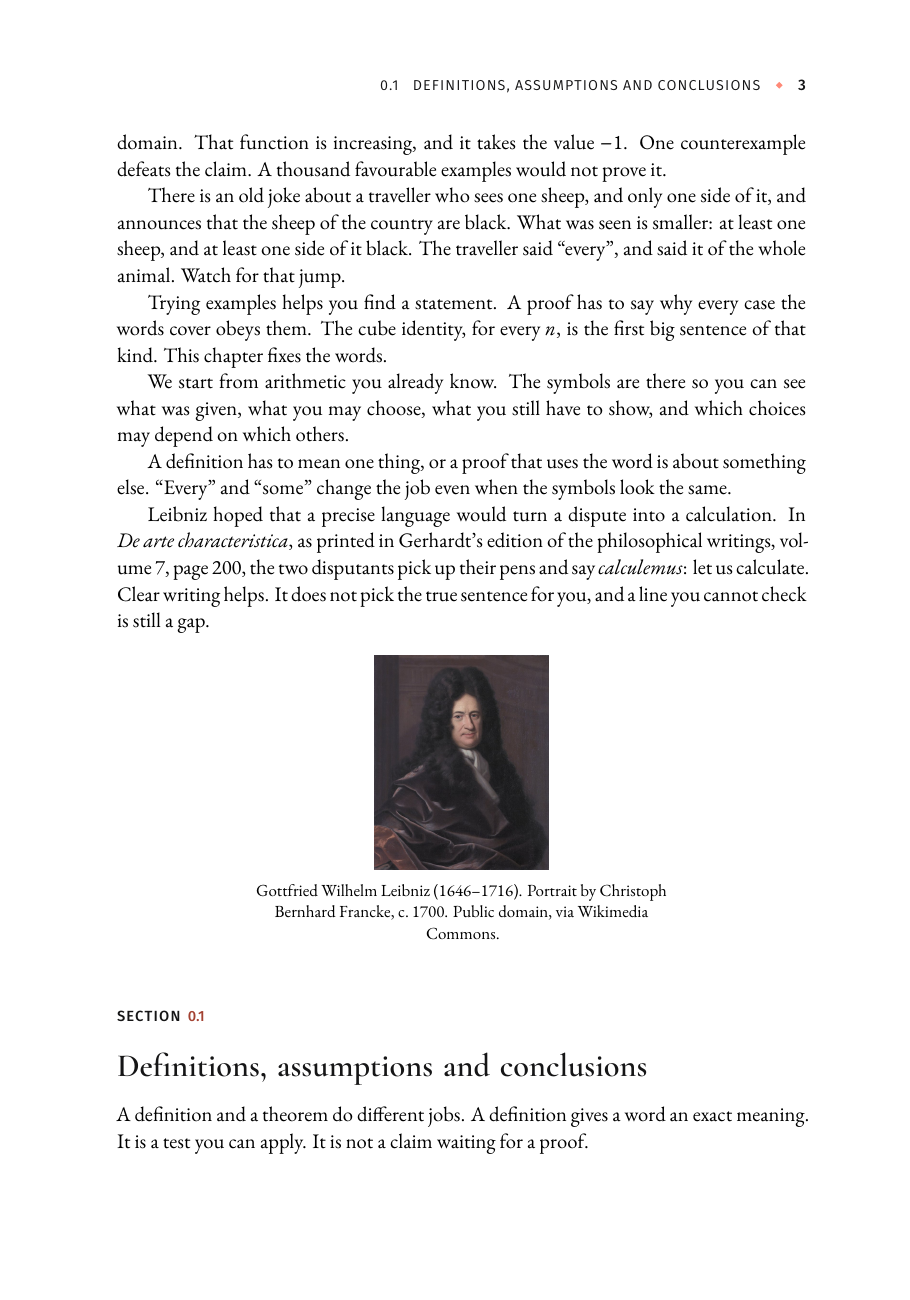
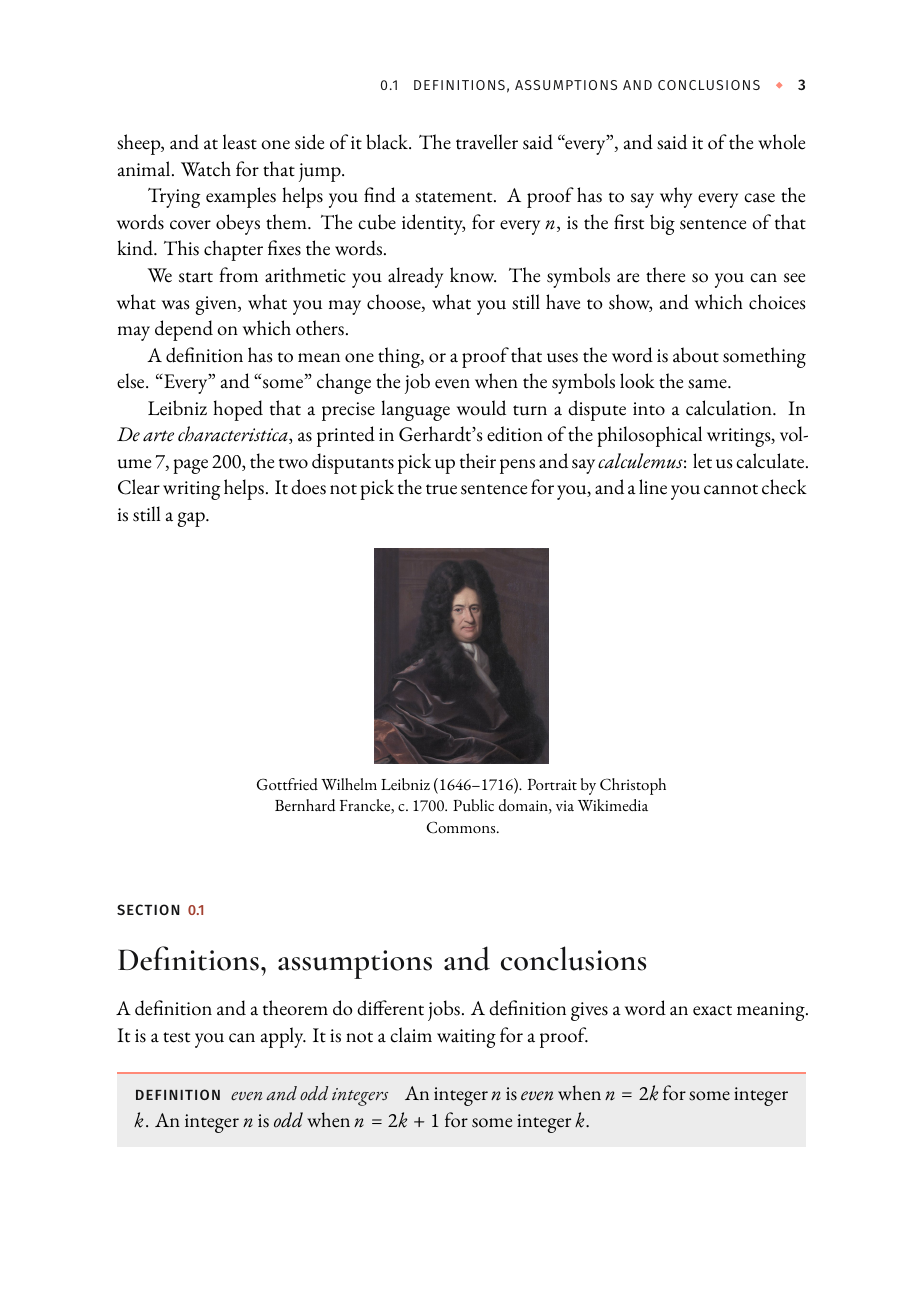
Put the chapter title inside the charcoal band
The numeral stays on the left and the cream Cormorant title sits beside it, so a long title remains on the charcoal. The coral rule and the epigraph follow on the paper, and the prose continues on the same page.

Changed region(s): [[0.1231, 0.0923, 0.8923, 0.8923], [0.1231, 0.6769, 0.2154, 0.7077]]

diff --git a/tools/epub.css b/tools/epub.css
@@ -53,9 +53,9 @@ h2 > .header-section-number { display: block; font-family: "OC Label", "Fira San
 h2 > .header-section-number::before { content: "Section\00A0\00A0"; color: #151516; }
 h3 > .header-section-number { margin-right: .45em; }
 
-/* Chapter opener and part header: one compact charcoal strip, then the epigraph, then
-   the text. Print uses the same order (common/chapter-opener.tex); the full charcoal
-   part page is print only. Masthead line, coral numeral beside the ivory title, coral rule. */
+/* Chapter opener and part header: the title sits inside the charcoal strip
+   (masthead, coral numeral, cream title). The epigraph and the text follow on the
+   page. Print uses the same order. The full charcoal part page is print only. */
 h1.oc-chapter, h1.oc-part { background-color: #151516; color: #fdf8f5; margin: 0 0 1em; padding: .55em .6em .6em;
   font-size: 1.6em; line-height: 1.15; }
 h1.oc-chapter::before, h1.oc-part::before { content: "Order and Chance \00B7\00A0 " attr(data-masthead);
@@ -64,6 +64,9 @@ h1.oc-chapter::before, h1.oc-part::before { content: "Order and Chance \00B7\00A
 h1.oc-chapter > .header-section-number, h1.oc-part > .header-section-number { display: inline; font-family: "OC Display",
   "Cormorant Garamond", Georgia, serif; font-weight: 300; font-size: 1.7em; line-height: 1; color: #ff8a78;
   margin-right: .25em; }
+h1.oc-chapter > .header-section-number::before { content: "Chapter\00A0";
+  font-family: "OC Label", "Fira Sans", sans-serif; font-weight: 500; font-size: .32em; letter-spacing: .12em;
+  text-transform: uppercase; color: #fdf8f5; vertical-align: .55em; }
 h1.oc-chapter > .header-section-number::after, h1.oc-part > .header-section-number::after { content: none; }
 .oc-opener { background-color: transparent; color: inherit; margin: 0 0 1.6em; padding: 0; }
 .oc-epigraph { font-style: italic; font-size: .95em; text-align: left; margin: 0 0 1em; }

diff --git a/tools/reader.css b/tools/reader.css
@@ -122,9 +122,8 @@ h2 > .header-section-number { display: block; font: 500 .45em/1.2 var(--sans); l
 h2 > .header-section-number::before { content: "Section\00A0\00A0"; color: var(--ink); }
 h3 > .header-section-number { margin-right: .45em; }
 
-/* Chapter opener and part header: one compact charcoal strip, then the epigraph, then
-   the text (the same order as the print opener). The full charcoal part page is print
-   only. Masthead line, coral numeral beside the ivory title, coral rule. */
+/* Chapter opener and part header: the title sits inside the charcoal strip, then the
+   epigraph and the text. The full charcoal part page is print only. */
 h1.oc-chapter, h1.oc-part { background: var(--panel); color: var(--ivory); margin: -8px calc(-1 * var(--pad)) 1.1em;
   padding: 14px var(--pad) 16px; font-size: 1.75em; line-height: 1.15; border-radius: 0 0 3px 3px; }
 h1.oc-chapter::before, h1.oc-part::before { content: "Order and Chance \00B7\00A0 " attr(data-masthead); display: block;
@@ -132,6 +131,9 @@ h1.oc-chapter::before, h1.oc-part::before { content: "Order and Chance \00B7\00A
   margin-bottom: 10px; }
 h1.oc-chapter > .header-section-number, h1.oc-part > .header-section-number { display: inline-block; vertical-align: -.08em;
   font: 300 1.9em/1 var(--display); font-variant-numeric: lining-nums; color: var(--coral); margin: 0 .3em 0 -.02em; }
+h1.oc-chapter > .header-section-number::before { content: "Chapter\00A0";
+  font: 500 .32em/1 var(--sans); letter-spacing: .12em; text-transform: uppercase; color: var(--ivory);
+  vertical-align: .55em; }
 h1.oc-chapter > .header-section-number::after, h1.oc-part > .header-section-number::after { content: none; }
 h1.oc-chapter::after, h1.oc-part::after { width: 48px; margin-top: 10px; }
 .oc-opener { background: none; color: var(--ink); margin: 0 0 1.8em; padding: 0; }

diff --git a/common/chapter-opener.tex b/common/chapter-opener.tex
@@ -4,11 +4,11 @@
 % PART n, the ivory title and the part rule. No epigraph, and no illustration: the
 % cover motif and \chaptermotif are not drawn here.
 %
-% Chapter opener: the same lockup, compact, at the top of the chapter's first page.
-% A charcoal band (masthead, volume line, coral numeral) sits 0.30 in inside the trim,
-% then CHAPTER n, the Cormorant title, a coral rule and the epigraph. The chapter
-% prose starts immediately under that block, on the same page. There is no second
-% heading. The first page uses the plain style (folio at the foot, no running head).
+% Chapter opener: one compact band at the top of the chapter's first page. The band
+% holds the masthead, the volume line, the coral numeral and the cream chapter title.
+% A coral rule and the epigraph sit on the paper directly under the band, and the
+% prose follows on the same page. There is no second heading. The first page uses the
+% plain style (folio at the foot, no running head).
 % Numbered chapters start on the next page, recto or verso: the class option is
 % openany, and a blank is not inserted to force a side. A part's first chapter
 % therefore still sits on the back of the part page.
@@ -25,11 +25,19 @@
 % no-bleed KDP page does not carry the band to the cut. \oc@bandH is the band's height;
 % \oc@bandDrop is how far its top sits below the trim (the text block begins at 1 in).
 \newlength{\oc@bandInset}\setlength{\oc@bandInset}{0.30in}
-\newlength{\oc@bandH}\setlength{\oc@bandH}{1.48in}
+\newlength{\oc@bandH}\setlength{\oc@bandH}{1.70in}
 \newlength{\oc@bandDrop}\setlength{\oc@bandDrop}{0.30in}
+\newlength{\oc@numW}\setlength{\oc@numW}{1.18in}
+\newlength{\oc@titleW}
+\newlength{\oc@lower}
+\newsavebox{\oc@ch@lock}
+\newsavebox{\oc@ch@num}
 % How far titlesec's strut line and the 0 pt before-skip push the band down
 % past \oc@bandDrop. Measured on a 7 x 10 page (see the comment on \oc@flow@band).
 \newlength{\oc@bandRaise}\setlength{\oc@bandRaise}{2.05in}
+% The raise above was measured when every band was 1.48 in tall. The picture's
+% baseline is its top, so this length is subtracted back out of the skip.
+\newlength{\oc@bandFix}\setlength{\oc@bandFix}{1.485in}
 \newlength{\oc@bandW}
 \newlength{\oc@hang}
 % Long titles: allow a line break after an en or em dash ("Bombieri--Vinogradov").
@@ -48,20 +56,38 @@
 \newif\ifoc@op@recto
 \let\oc@ch@epi\@empty
 % ---------------------------------------------------------------- the chapter band
-% Drawn in the text flow and shifted into the top and side margins, stopping
-% \oc@bandDrop / \oc@bandInset short of the trim. The following title block, and
-% then the chapter prose, continue on this page.
-\newcommand{\oc@flow@band}{%
+% Numeral on the left, CHAPTER n and the cream title on the right, both inside
+% the charcoal. The band grows for a two-line title. Its top stays \oc@bandDrop
+% below the trim; the sides stay \oc@bandInset inside the trim.
+\newcommand{\oc@flow@band}[1]{%
   \setlength{\oc@bandW}{\dimexpr\PRINTWIDTH in-2\oc@bandInset\relax}%
   \ifodd\c@page
     \setlength{\oc@hang}{\dimexpr\ocInner-\oc@bandInset\relax}%
   \else
     \setlength{\oc@hang}{\dimexpr\ocOuter-\oc@bandInset\relax}%
   \fi
+  \setlength{\oc@titleW}{\dimexpr\linewidth-\oc@numW-0.20in\relax}%
+  \sbox{\oc@ch@num}{\ocNumeral\fontsize{64}{64}\selectfont\thechapter}%
+  \setbox\oc@ch@lock=\vbox{%
+    \topskip=0pt \parskip=0pt \parindent=0pt
+    \hsize=\oc@titleW
+    \hyphenpenalty=10000 \exhyphenpenalty=10000
+    \raggedright\everypar{}%
+    {\ocMed\fontsize{8.2}{10}\selectfont\color{ocCream}%
+      \ocLab{\chaptertitlename}\enspace\textcolor{ocCoral}{\thechapter}\par}%
+    \vspace{4pt}%
+    {\ocDisplay\linespread{1}\fontsize{26}{30}\selectfont\color{ocCream}%
+      \everymath{\color{ocCream}}\everydisplay{\color{ocCream}}%
+      \ocBreakDashes{#1}\par}}%
+  \setlength{\oc@lower}{\dimexpr\ht\oc@ch@lock+\dp\oc@ch@lock\relax}%
+  \ifdim\ht\oc@ch@num>\oc@lower \setlength{\oc@lower}{\ht\oc@ch@num}\fi
+  % Masthead and volume line, then the lockup, then a pad inside the charcoal.
+  \setlength{\oc@bandH}{\dimexpr0.64in+\oc@lower+0.18in\relax}%
   % titlesec inserts \vspace*{0pt} and its block shape leaves a strut line above
-  % this point, so the natural top of the band is far down the page. \oc@bandRaise
-  % is the measured correction that puts the band's top at \oc@bandDrop.
-  \vspace*{\dimexpr\oc@bandH-(1in-\oc@bandDrop)+\topskip-\oc@bandRaise\relax}%
+  % this point. The picture's baseline is its top edge, so a taller title must not
+  % push that edge down. \oc@bandRaise was measured for a 1.48 in band; \oc@bandFix
+  % takes that height back out and leaves the top at \oc@bandDrop.
+  \vspace*{\dimexpr\oc@bandFix-(1in-\oc@bandDrop)+\topskip-\oc@bandRaise\relax}%
   \nointerlineskip
   \moveleft\oc@hang\hbox{%
     \begin{tikzpicture}[baseline={(0,0)}]
@@ -71,37 +97,34 @@
         {\ocDisplay\fontsize{10.5}{12}\selectfont\color{ocCream}\ocCaps[26]{Order and Chance}};
       \node[anchor=north west,inner sep=0pt] at (\oc@hang,\oc@bandH-0.34in)
         {\ocBook\fontsize{7}{9}\selectfont\color{ocCream!80}\ocCaps[20]{\ocVolume}};
-      \node[anchor=base west,inner sep=0pt,text=ocCoral,font=\ocNumeral\fontsize{78}{78}\selectfont]
-        at (\oc@hang-0.015in,0.09in) {\thechapter};
+      \node[anchor=north west,inner sep=0pt] at (\oc@hang-0.02in,\oc@bandH-0.62in)
+        {\usebox\oc@ch@num};
+      \node[anchor=north west,inner sep=0pt] at (\oc@hang+\oc@numW+0.16in,\oc@bandH-0.62in)
+        {\usebox\oc@ch@lock};
     \end{tikzpicture}}}
-% Label, title, coral rule and the epigraph, on the paper directly under the band.
-\newcommand{\oc@flow@title}[1]{%
+% Coral rule and epigraph on the paper directly under the band; the body follows.
+\newcommand{\oc@flow@after}{%
   \nointerlineskip
-  \vskip 11pt
+  \vskip 12pt
   \vbox{%
     \hsize=\linewidth
     \everypar{}%
     \parindent=0pt
-    \noindent{\ocLabelFont\ocLab{\chaptertitlename}\enspace\ocNum{\thechapter}}\par
-    \vspace{6pt}%
-    {\ocDisplay\linespread{1}\fontsize{30}{34}\selectfont\color{ocBlack}%
-      \raggedright\hyphenpenalty10000\exhyphenpenalty10000 \ocBreakDashes{#1}\par}%
-    \vspace{8pt}%
-    \ocChapterRule\par
+    \noindent\ocChapterRule\par
     \ifx\oc@ch@epi\@empty\else
-      \vspace{8pt}%
+      \vspace{9pt}%
       {\small\itshape\color{ocBlack}\raggedright\hyphenpenalty10000\exhyphenpenalty10000
         \let\\\newline \oc@ch@epi\par}%
     \fi}}
-% Numbered chapter heading: plain page (no running head), then the band and title.
+% Numbered chapter heading: plain page (no running head), band, then rule and epigraph.
 % \ocChapterHead is the titlesec before-code; #1 is the title that follows it.
 \renewcommand{\ocChapterHead}[1]{%
   \thispagestyle{plain}%
   % titlesec's block shape has already \leavevmode'd, so the band has to return
   % to vertical mode. The paragraph it closes holds only the indent strut.
   \par
-  \oc@flow@band
-  \oc@flow@title{#1}}
+  \oc@flow@band{#1}%
+  \oc@flow@after}
 % Part page: full charcoal, the part's own title lockup, nothing else.
 \newcommand{\oc@part@page}[2]{% #1 numeral (empty for \part*), #2 title
   \global\oc@op@rectotrue

diff --git a/docs/design/interior.md b/docs/design/interior.md
@@ -28,7 +28,7 @@ The manuscripts (`volume*/chapters`) need no markup for any of it.
 |---|---|---|
 | Body text, proofs, notes | EB Garamond (Regular, Italic, SemiBold, SemiBold Italic) | 11.5 pt on 14.75 pt (11 pt class size, `Scale=1.05`, `\linespread{1.085}`), lining figures |
 | Mathematics | Garamond-Math (stylistic sets 1, 2) | same scale as the text |
-| Headings, titles, the opener numeral | Cormorant Garamond SemiBold / SemiBold Italic / Light | chapter opener 30/34 pt (unnumbered chapters 22/26), section 18/21, subsection 14/17; opener numeral 78 pt Light |
+| Headings, titles, the opener numeral | Cormorant Garamond SemiBold / SemiBold Italic / Light | chapter title in the band 26/30 pt cream (unnumbered chapters 22/26), section 18/21, subsection 14/17; opener numeral 64 pt Light |
 | Labels, running heads, captions, folios | Fira Sans Book / Medium (+ italics) | labels 8.2 pt capitals, 8% tracking |
 | Code | DejaVu Sans Mono | |
 
@@ -61,12 +61,14 @@ the running heads.
 
 The opener is a compact block at the top of that page:
 
-- a charcoal band, 1.48 in tall, held 0.30 in inside the trim on the top and the sides.
-  It carries the masthead `ORDER AND CHANCE`, the volume line, and the chapter numeral
-  (or appendix letter) in 78 pt coral Cormorant Light;
-- under the band, on the white paper: `CHAPTER n` (Fira Medium, charcoal, numeral in
-  deep coral), the charcoal Cormorant title at 30/34 pt, a 0.9 in coral rule, and the
-  epigraph in charcoal italic.
+- a charcoal band, held 0.30 in inside the trim on the top and the sides. It grows to
+  fit the title. Inside it, from the top: the masthead `ORDER AND CHANCE` and the
+  volume line in cream; then the chapter numeral (or appendix letter) in 64 pt coral
+  Cormorant Light on the left, and on the right `CHAPTER n` (Fira, cream, numeral in
+  coral) with the cream Cormorant title at 26/30 pt. A two-line or three-line title
+  stays inside the charcoal;
+- under the band, on the white paper: a 0.9 in coral rule, then the epigraph in
+  charcoal italic.
 
 The body follows the epigraph. There is no second heading on the next page. Unnumbered
 chapters (preface, field guide, About the Cover, solutions, index, bibliography) have

diff --git a/docs/DESIGN.md b/docs/DESIGN.md
@@ -1,10 +1,11 @@
 # Chapter opener on the same page — 31 October 2026
 
 Numbered chapters no longer spend a page on the band alone. `common/chapter-opener.tex`
-draws a compact charcoal band (masthead, volume line, 78 pt coral numeral) 0.30 in
-inside the trim, then the chapter label, the Cormorant title, the coral rule and the
-epigraph. The prose starts under that block, on the same page, and the next page does
-not repeat the heading. The first page is plain: folio at the foot, no running head.
+draws a compact charcoal band 0.30 in inside the trim. The band holds the masthead,
+the volume line, the 64 pt coral numeral and the cream Cormorant title (`CHAPTER n`
+beside the numeral). A two-line title stays inside the charcoal. The coral rule and
+the epigraph sit on the paper under the band. The prose starts on that same page, and
+the next page does not repeat the heading. The first page is plain: folio at the foot, no running head.
 Chapters still start on a new page, on whichever side comes next, so a part page is
 not followed by a blank. Unnumbered chapters keep the short heading. Part pages are
 unchanged. The EPUB already opened with one strip and then the text; that is unchanged.
